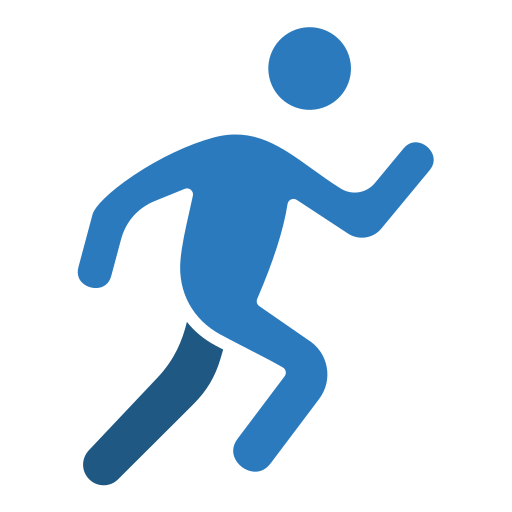
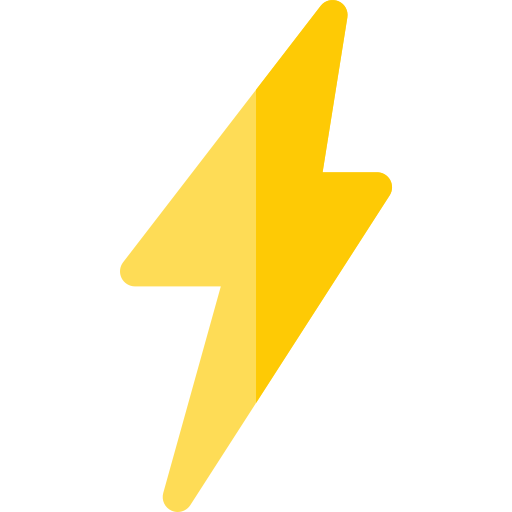
fix padding

Changed region(s): [[0.1562, 0.0, 0.8438, 1.0]]

diff --git a/lib/pages/main_pages/settings_page.dart b/lib/pages/main_pages/settings_page.dart
@@ -20,13 +20,13 @@ class SettingsPage extends StatelessWidget {
         width: double.infinity,
         height: double.infinity,
         color: cp.isDark ? cp.bg : cp.habitBg,
-        padding: const EdgeInsets.only(left: 16.0, right: 16.0, bottom: 20),
+        padding: const EdgeInsets.only(left: 16.0, right: 16.0),
         child: ListView(
           children: [
             const SizedBox(height: 20),
             SettingsTopSection(),
             Padding(
-              padding: EdgeInsets.only(top: 26),
+              padding: EdgeInsets.only(top: 26, bottom: 20),
               child: Column(
                 mainAxisAlignment: MainAxisAlignment.start,
                 spacing: 10,
